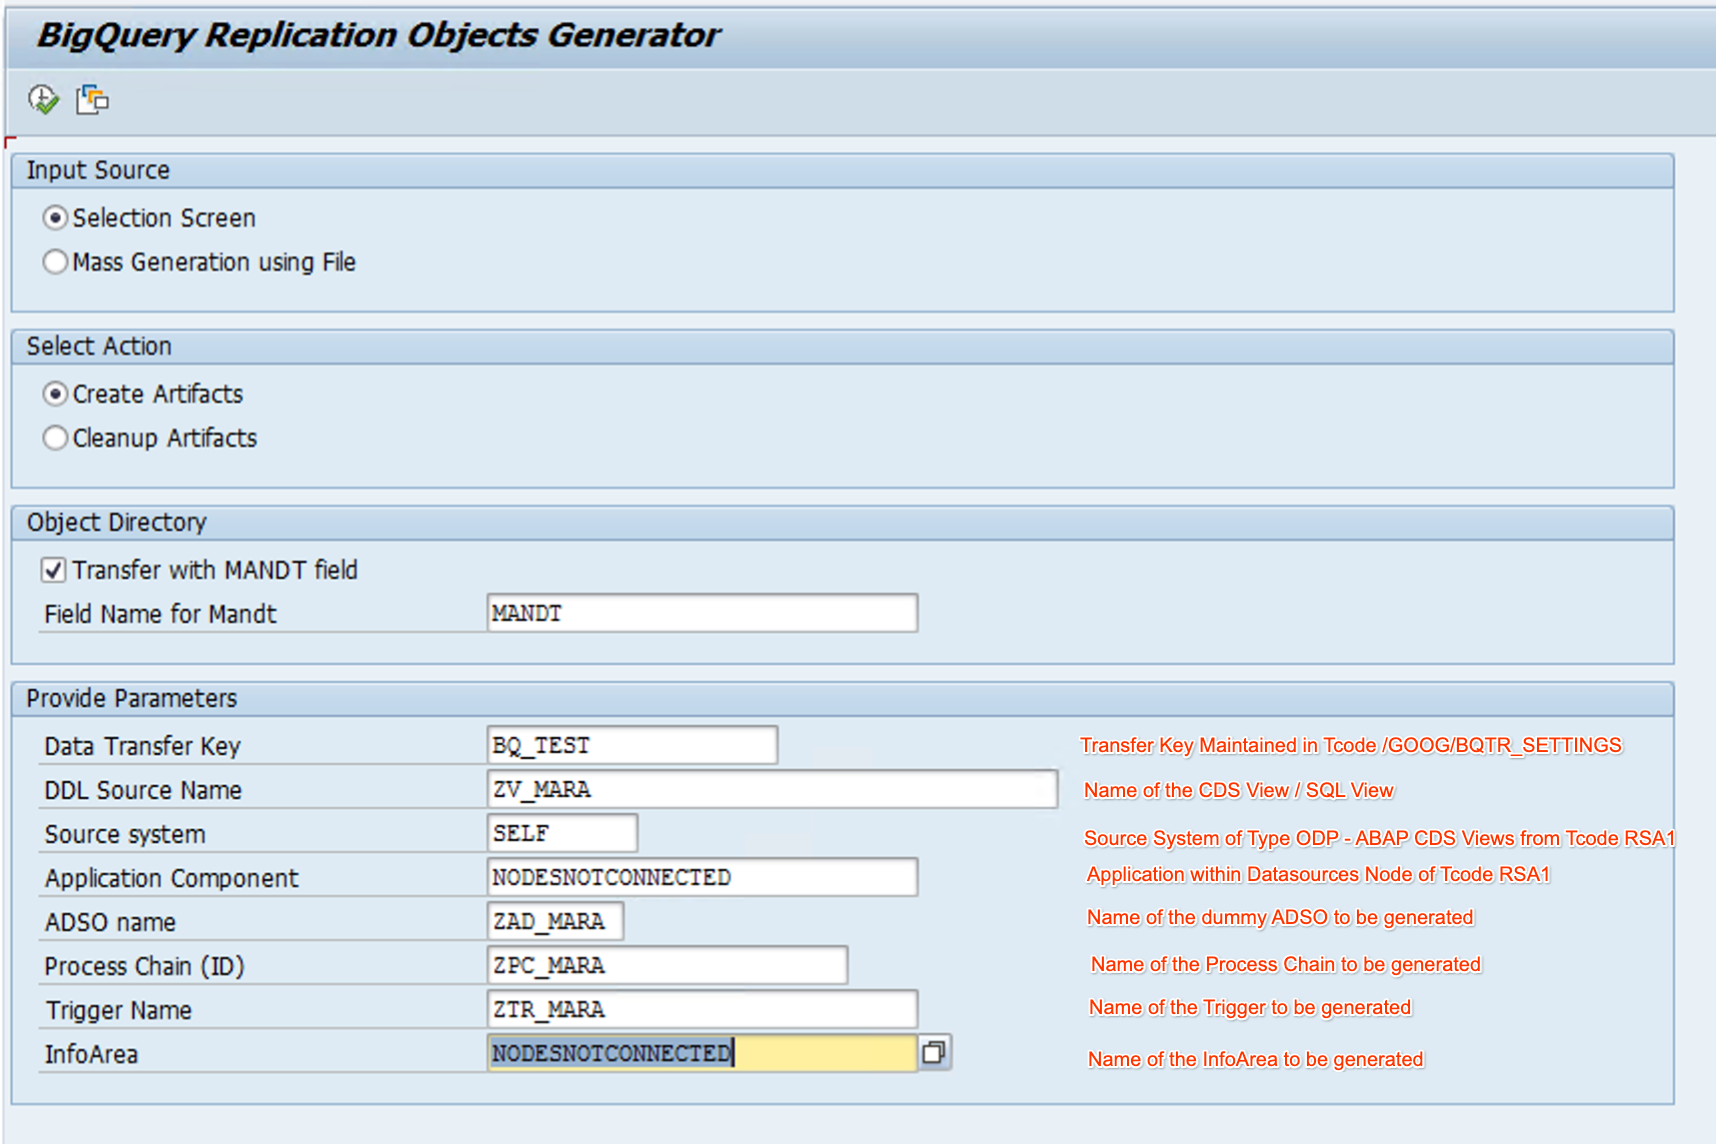
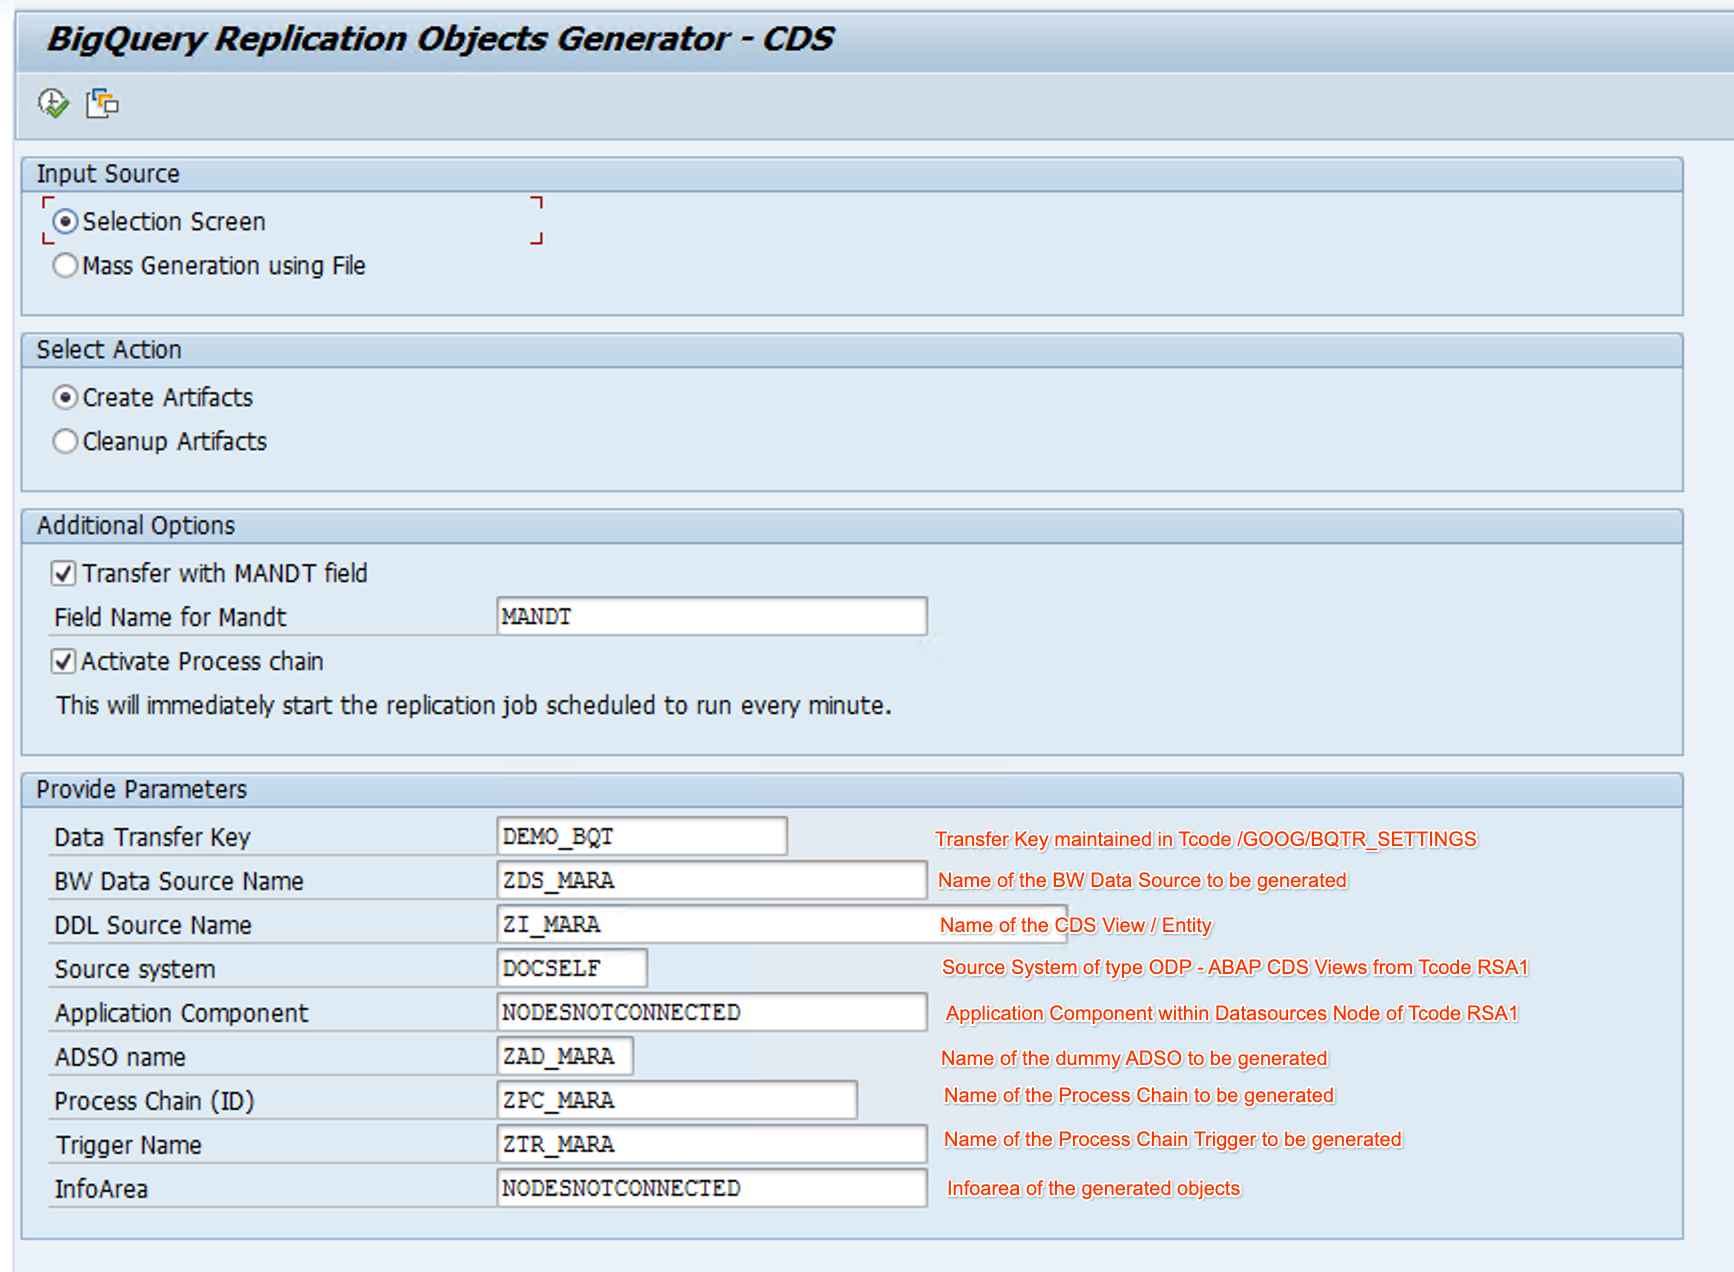
Update Readme for SAPI and CDS Extractors in Legacy SAP systems

diff --git a/README.md b/README.md
@@ -1,5 +1,6 @@
 # ![Google Cloud](https://avatars.githubusercontent.com/u/2810941?s=60&v=4) BigQuery Toolkit for SAP - Replication Objects Generator
 
+> 📢 🚀[Annoucing Archive to BigQuery feature, powered by BigQuery Toolkit for SAP](#archive-to-bigquery) 
 
 ## Introduction
 The tools in this repo allow you generate required objects and boilerplate code for establishing a data replication pipeline from SAP into BigQuery by utilizing [BigQuery Toolkit for SAP](https://cloud.google.com/solutions/sap/docs/abap-sdk/on-premises-or-any-cloud/latest/bq-toolkit-for-sap-overview)  
@@ -32,7 +33,8 @@ This repo includes tools designed to simplify and accelerate the process of extr
  - [2 - How to Guide](#2---how-to-guide)
    - [2.1 - CDS View Generator](#21---cds-view-generator)
    - [2.2 - Replication Objects Generator](#22---replication-objects-generator)
-   - [2.3 - Dynamic Load Program](#23---dynamic-load-program)
+   - [2.3 - Legacy Replication Objects Generator](#23---legacy-replication-objects-generator)
+   - [2.4 - Dynamic Load Program](#23---dynamic-load-program)
  - [3 - Operations Guide](#3---operations-guide)
 
 
@@ -112,7 +114,12 @@ When you run the B/W Generator program, it will perform the corresponding action
 
 [![YouTube](http://i.ytimg.com/vi/p_HPf_ZUF1A/hqdefault.jpg)](https://www.youtube.com/watch?v=p_HPf_ZUF1A)
 
-### [2.3 - Dynamic Load Program](#table-of-contents)
+### [2.3 - Legacy Replication Objects Generator](#table-of-contents) 
+You can use the program ZGOOG_R_BQTR_GEN_REPL_OBJ_LEG to generate replication objects for ODP SAPI and CDS Extractors in legacy systems such as SAP ECC. 
+
+![alt_text](images/Data_Transfer_Gen_Legacy.png "Legacy Data Transfer Generator Screen").
+
+### [2.4 - Dynamic Load Program](#table-of-contents)
 The program ZGOOG_R_BQTR_DEMO_DYN_LOAD demonstrates how you can directly load data from a SAP table or CDS View into BigQuery by using BigQuery Toolkit 
 
 ![alt_text](images/Dynamic_Load_Demo.png "Dynamic Load Demo Program Screen")
